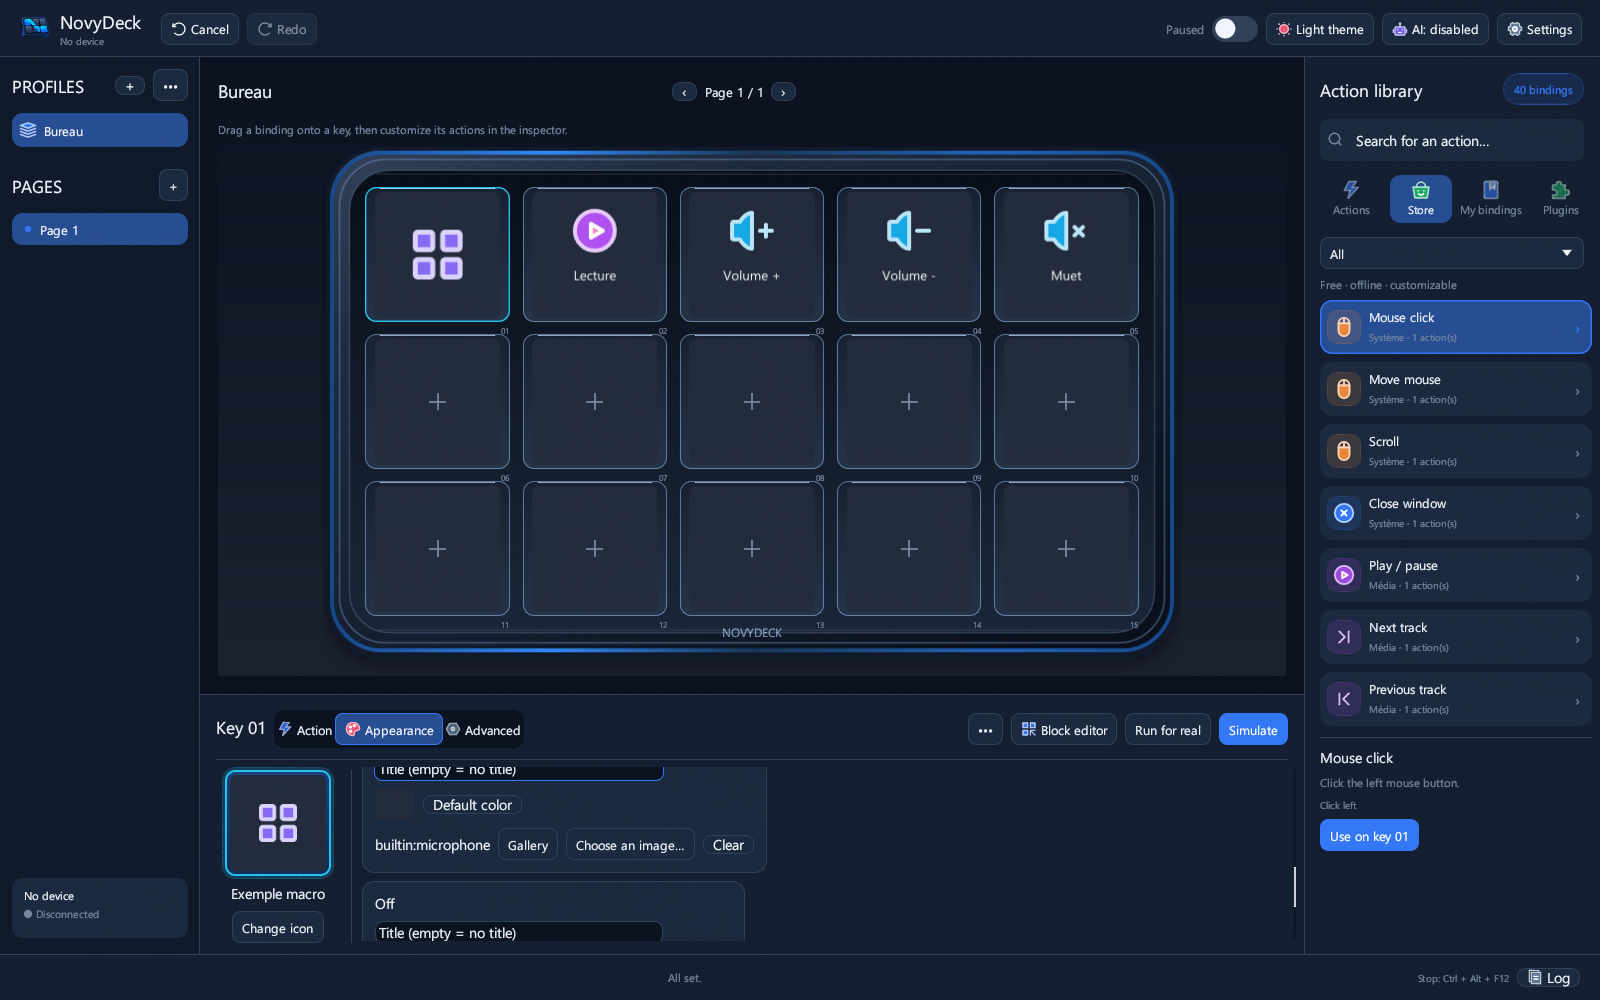
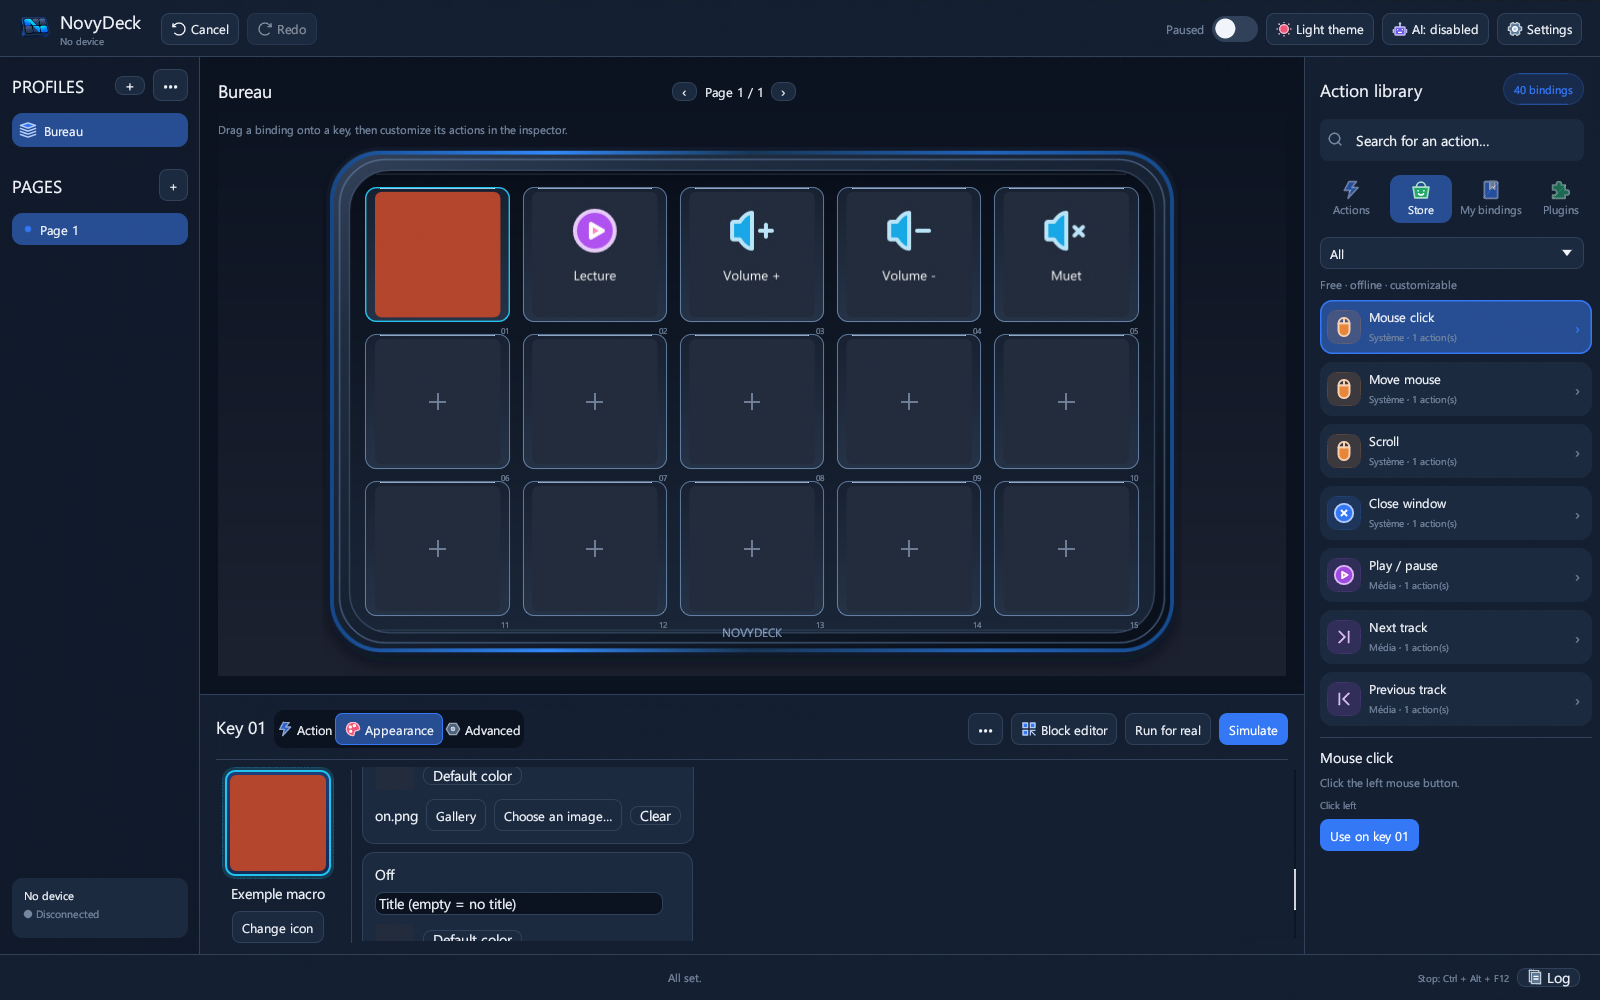
Document ON/OFF key images with reviewed French and English captures

Changed region(s): [[0.125, 0.744, 0.4688, 0.961], [0.2188, 0.186, 0.3125, 0.341]]

diff --git a/README.fr.md b/README.fr.md
@@ -27,7 +27,9 @@ Un film de présentation de 40 s en 1920 × 1080 à 60 i/s, avec son, réalisé 
 
 Sélectionne une touche, puis **Apparence → Adapter la touche à deux états → Interrupteur : change à chaque appui**. Choisis séparément les images **Activé** et **Désactivé** avec **Choisir une image…** ou la galerie. Chaque appui court physique alterne les deux images tout en exécutant l’action habituelle ; un appui long configuré ne change pas l’image. L’état revient à **Désactivé** au démarrage ou après un changement de page/profil. Les touches existantes à image unique ne changent pas.
 
-![Panneau Apparence avec images Activé et Désactivé](docs/images/key-toggle-fr.png)
+| Activé (touche verte) | Désactivé (touche orange) |
+|:--:|:--:|
+| ![Image Activé choisie dans Apparence](docs/images/key-toggle-on-fr.png) | ![Image Désactivé choisie dans Apparence](docs/images/key-toggle-fr.png) |
 
 ### Autres corrections
 

diff --git a/README.md b/README.md
@@ -27,7 +27,9 @@ A 40-second presentation film in 1920 × 1080 at 60 fps with sound, made with Re
 
 Choose a key, open **Appearance → Show two key states → Switch: change on each press**, then select an image separately for **On** and **Off** using **Choose an image…** or the gallery. A short physical press alternates the two images while running the key's normal action; a configured long press does not change the image. The key starts **Off** when NovyDeck opens or when you switch pages or profiles. Existing single-image keys are unchanged.
 
-![Appearance panel for ON/OFF key images, English interface](docs/images/key-toggle-en.png)
+| On (green key) | Off (orange key) |
+|:--:|:--:|
+| ![On image selected in Appearance, English interface](docs/images/key-toggle-on-en.png) | ![Off image selected in Appearance, English interface](docs/images/key-toggle-en.png) |
 
 ### Other fixes
 
